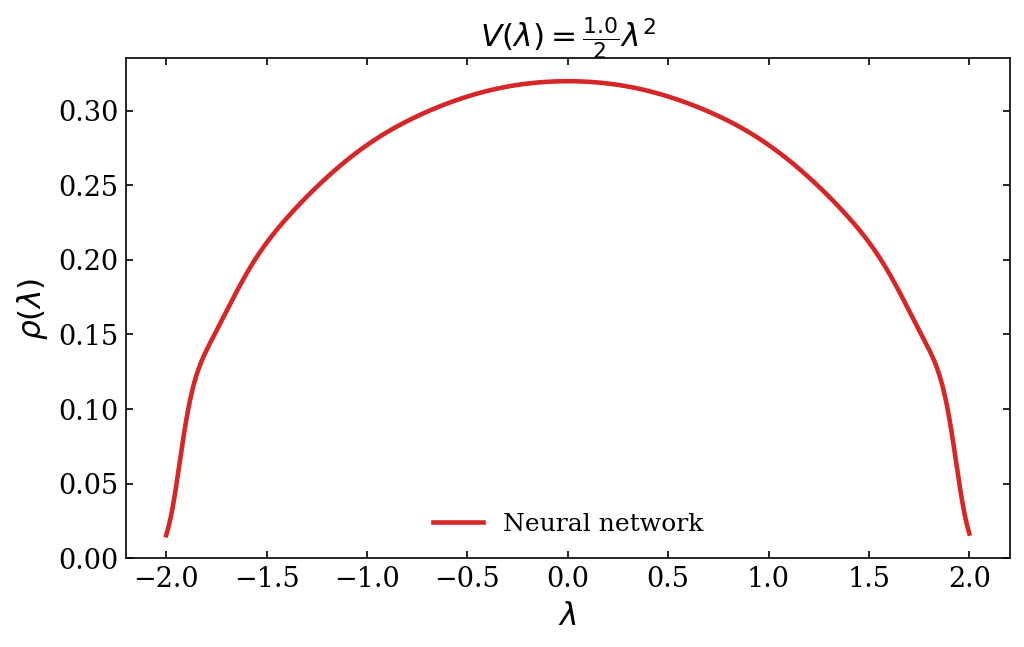
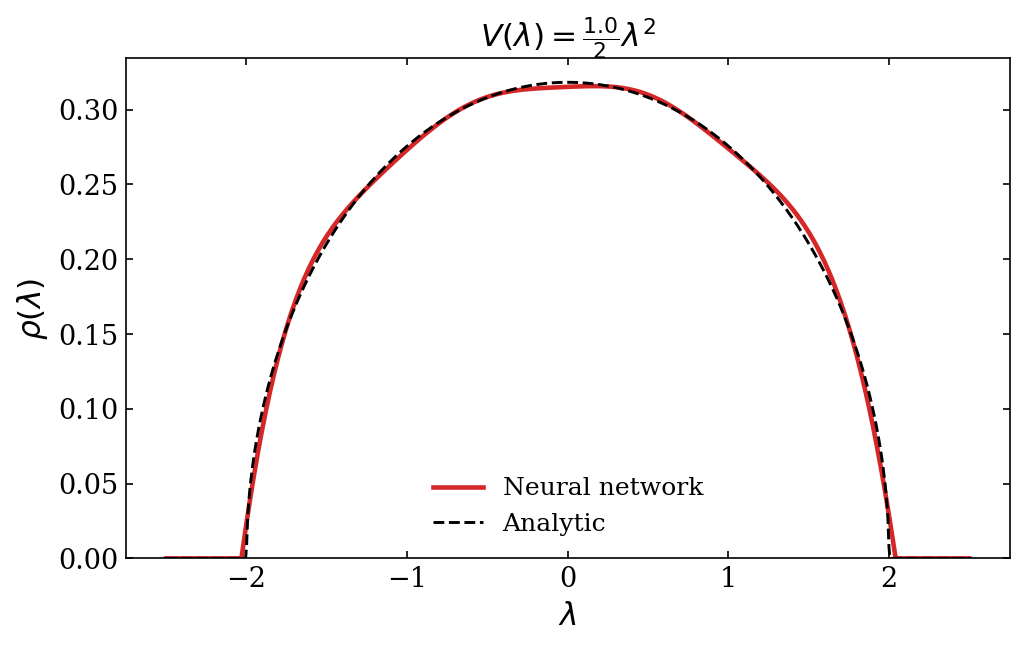
changed softplus -> relu in jax model

diff --git a/model_jax.py b/model_jax.py
@@ -21,4 +21,4 @@ class MatrixNetwork(nn.Module):
         z = nn.Dense(1)(z)
         z = z[..., 0]
 
-        return nn.softplus(z)
+        return jax.nn.relu(z)
